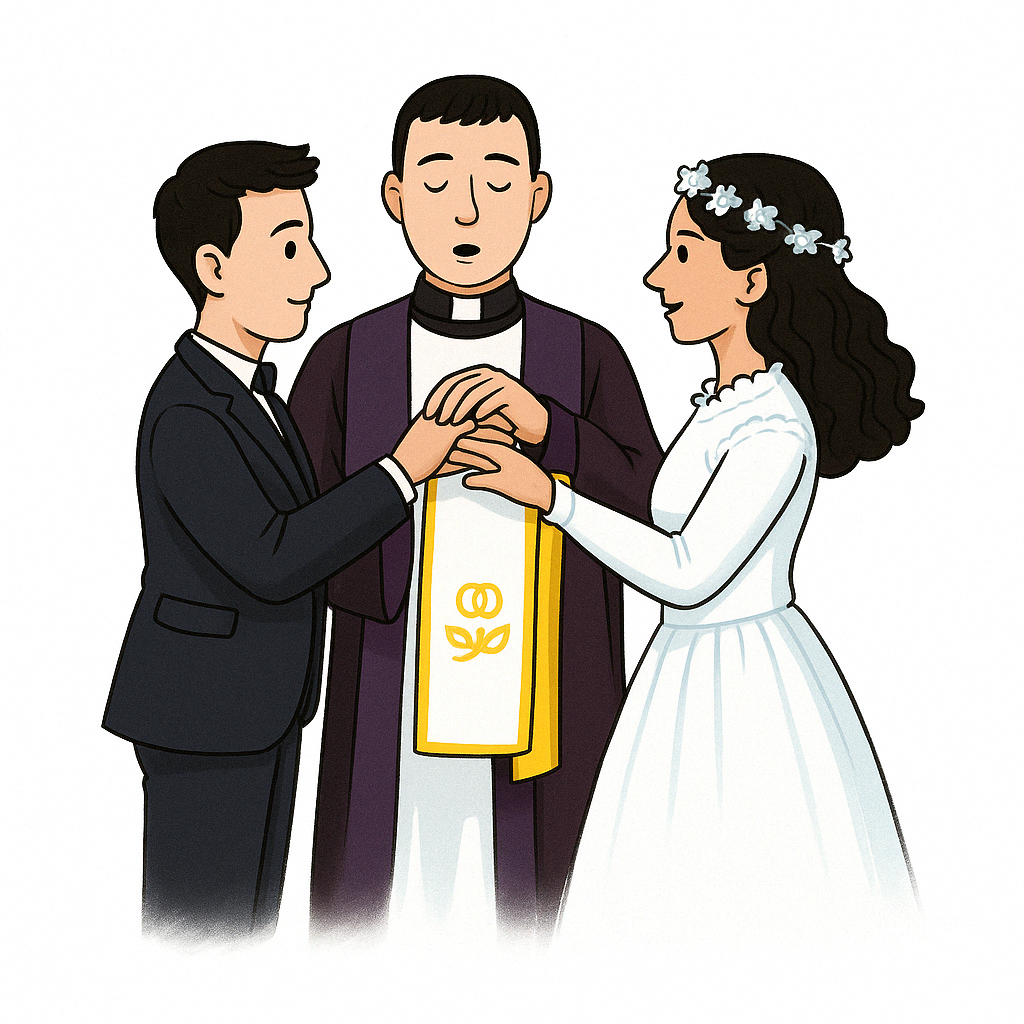
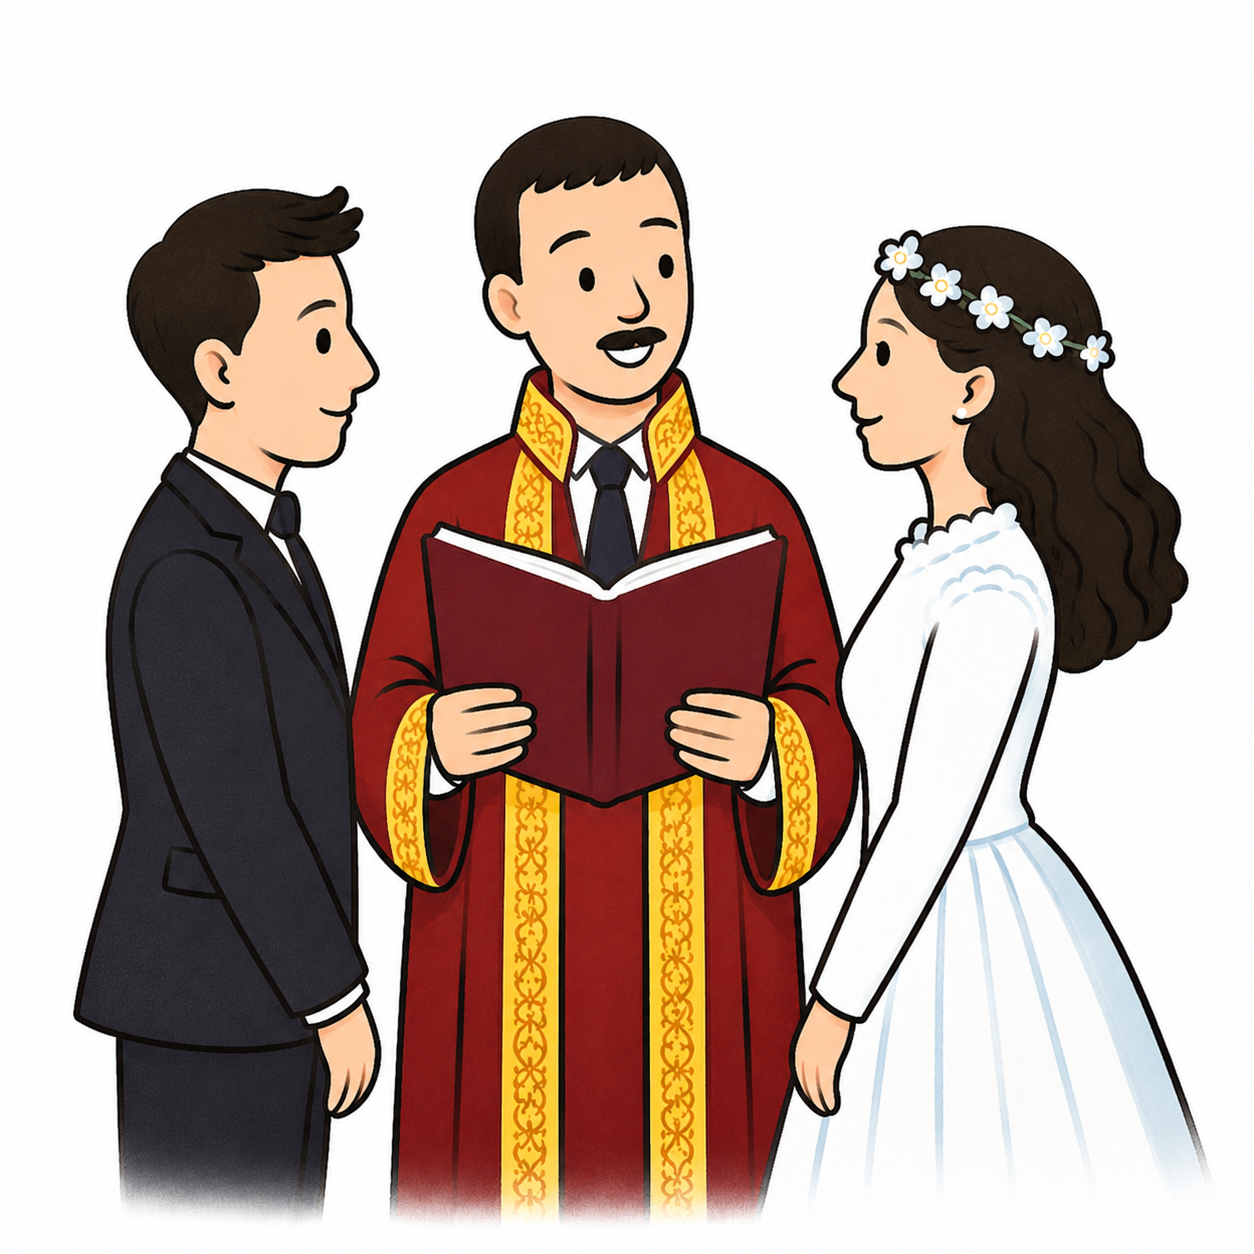
changes to distractors

diff --git a/src/orev.html b/src/orev.html
@@ -403,7 +403,7 @@
               <img
                 class="lower-left"
                 data-word-category="target"
-                src="images/verbs/V_operieren.jpeg"
+                src="images/verbs/V_operate.png"
               />
             </div>
             <div class="image">
@@ -805,7 +805,7 @@
               <img
                 class="upper-left"
                 data-word-category="dist2"
-                src="images/nouns/N_demon.png"
+                src="images/nouns/N_screen.png"
               />
             </div>
             <div class="image">
